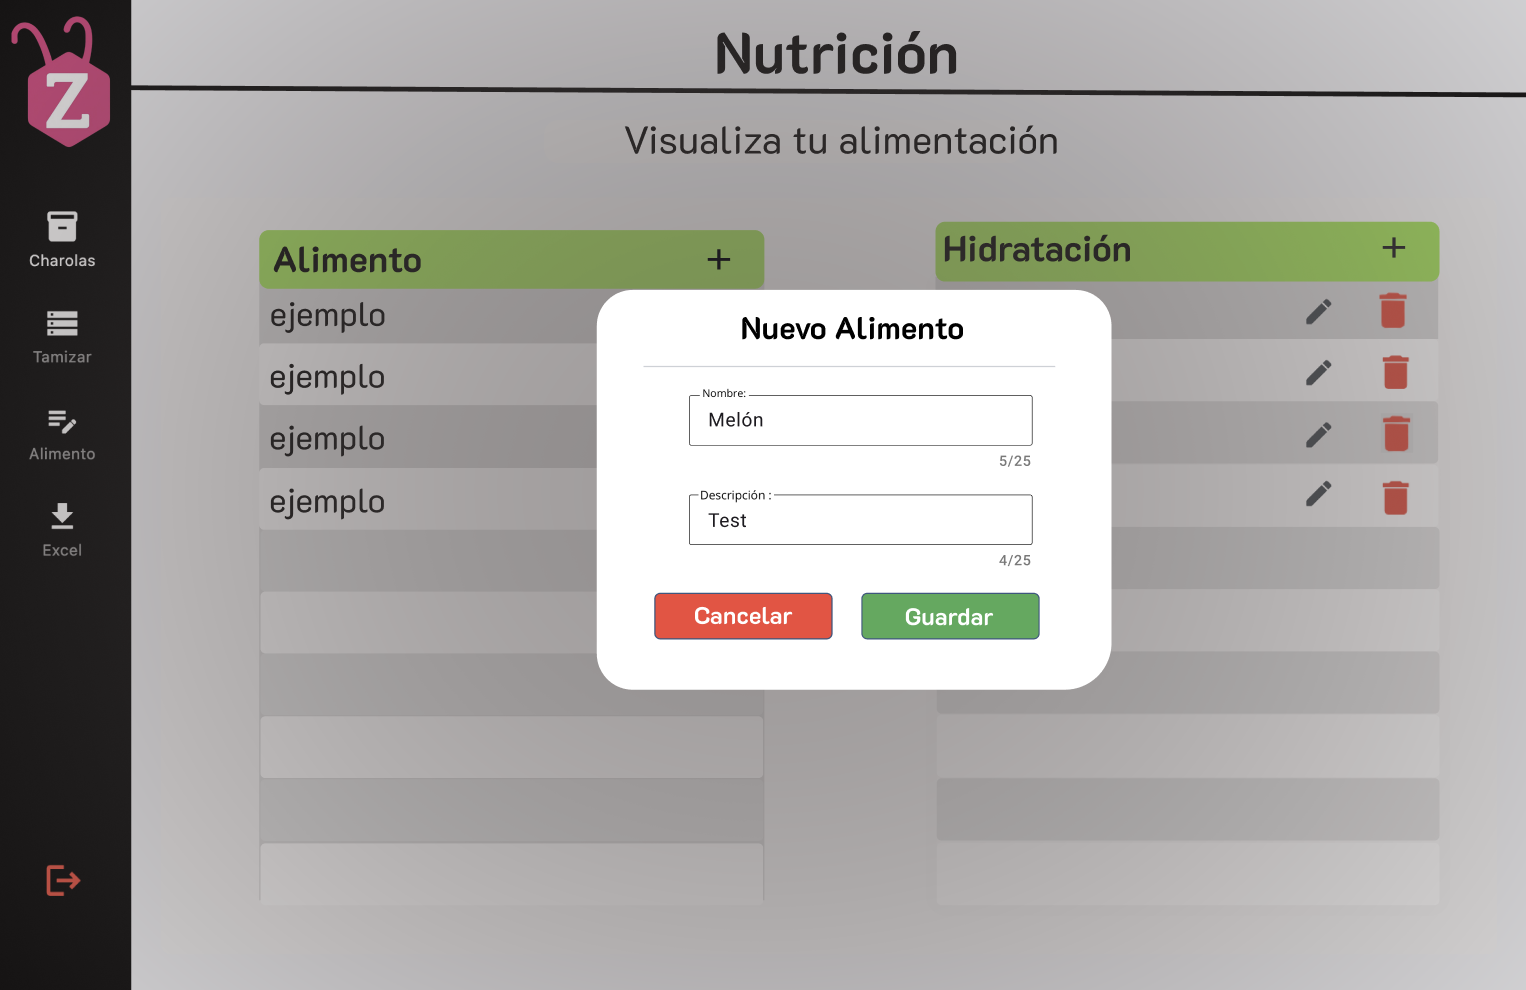
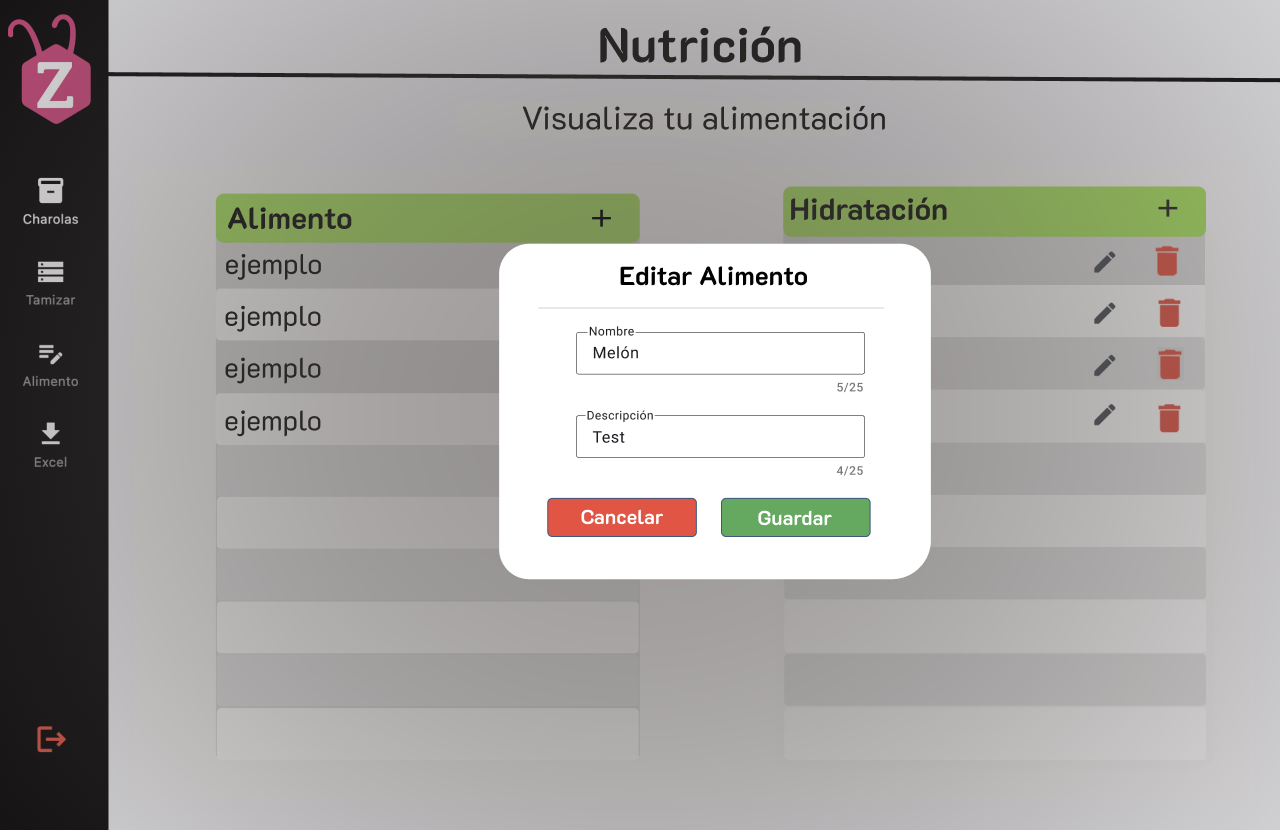
Subir Diseño de Algoritmos

diff --git a/documentation/docs/proyectos/larvas/documentacion/requisitos/RF23.md b/documentation/docs/proyectos/larvas/documentacion/requisitos/RF23.md
@@ -1,17 +1,19 @@
 ---
-title: "RF23: Registrar un nuevo tipo de comida en el sistema"  
+title: "RF23: Registrar un nuevo tipo de alimento en el sistema"  
 sidebar_position: 24
 ---
 
-# RF23: Registrar un nuevo tipo de comida en el sistema
+# RF23: Registrar un nuevo tipo de alimento en el sistema
 
 ### Historia de Usuario
-Como usuario, quiero agregar un nuevo tipo de comida en el sistema, para actualizar y mejorar la alimentación de las larvas y escarabajos según sea necesario.
+Como usuario, quiero agregar un nuevo tipo de alimento en el sistema, para actualizar y mejorar la alimentación de las larvas y escarabajos según sea necesario.
 
 
   **Criterios de Aceptación:**
-  - El sistema debe permitir ingresar un nuevo tipo de comida respectiva descripción y cantidad recomendada.
-  - La nueva comida debe estar disponible en la lista de opciones de alimentación.
+  - El sistema debe permitir ingresar un nuevo tipo de alimento respectiva descripción y cantidad recomendada.
+  - La nueva alimento debe estar disponible en la lista de opciones de alimentación.
+  - No se puede ingresar números al registrar el nombre de un alimento.
+  - No se puede ingresar caracteres especiales al registrar el nombre de un alimento.
 
 ---
 
@@ -37,21 +39,21 @@ sequenceDiagram
 
      alt GET Muestra datos tabla, 200
         Usuario->>+View: Entra a la interfaz
-        View->>-ViewModel: getTablaComida()
+        View->>-ViewModel: obtenerAlimentos()
         activate ViewModel 
-        ViewModel->>Domain: getTablaComida()
+        ViewModel->>Domain: obtenerAlimentos()
         deactivate ViewModel 
         activate Domain
-        Domain->>Repository: getTablaComida()
+        Domain->>Repository: obtenerAlimentos()
         deactivate Domain
         activate Repository
-        Repository->>APIService: getTablaComida()
+        Repository->>APIService: obtenerAlimentos()
         deactivate Repository
         activate APIService
-        APIService->>Controller: GET /getInfoComida
+        APIService->>Controller: GET /obtenerAlimentos
         deactivate APIService
         activate Controller
-        Controller->>Model: getInfoComida
+        Controller->>Model: obtenerAlimentos
         deactivate Controller
         activate Model
         Model->>Database: query
@@ -84,21 +86,21 @@ sequenceDiagram
     
     else GET No se encontraron datos, 200
         Usuario->>+View: Entra a la interfaz
-        View->>-ViewModel: getTablaComida()
+        View->>-ViewModel: obtenerAlimentos()
         activate ViewModel 
-        ViewModel->>Domain: getTablaComida()
+        ViewModel->>Domain: obtenerAlimentos()
         deactivate ViewModel 
         activate Domain
-        Domain->>Repository: getTablaComida()
+        Domain->>Repository: obtenerAlimentos()
         deactivate Domain
         activate Repository
-        Repository->>APIService: getTablaComida()
+        Repository->>APIService: obtenerAlimentos()
         deactivate Repository
         activate APIService
-        APIService->>Controller: GET /getInfoComida
+        APIService->>Controller: GET /obtenerAlimentos
         deactivate APIService
         activate Controller
-        Controller->>Model: getInfoComida
+        Controller->>Model: obtenerAlimentos
         deactivate Controller
         activate Model
         Model->>Database: query
@@ -131,21 +133,21 @@ sequenceDiagram
 
         else GET Error de servidor, 500
         Usuario->>+View: Entra a la interfaz
-        View->>-ViewModel: getTablaComida()
+        View->>-ViewModel: obtenerAlimentos()
         activate ViewModel 
-        ViewModel->>Domain: getTablaComida()
+        ViewModel->>Domain: obtenerAlimentos()
         deactivate ViewModel 
         activate Domain
-        Domain->>Repository: getTablaComida()
+        Domain->>Repository: obtenerAlimentos()
         deactivate Domain
         activate Repository
-        Repository->>APIService: getTablaComida()
+        Repository->>APIService: obtenerAlimentos()
         deactivate Repository
         activate APIService
-        APIService->>Controller: GET /getInfoComida
+        APIService->>Controller: GET /obtenerAlimentos
         deactivate APIService
         activate Controller
-        Controller->>Model: getInfoComida
+        Controller->>Model: obtenerAlimentos
         activate Model
         Model->>Database: query
         activate Database
@@ -174,18 +176,18 @@ sequenceDiagram
 
     else GET No hay inicio de sesión, 401
         Usuario->>+View: Entra a la interfaz
-        View->>-ViewModel: getTablaComida()
+        View->>-ViewModel: obtenerAlimentos()
         activate ViewModel 
-        ViewModel->>Domain: getTablaComida()
+        ViewModel->>Domain: obtenerAlimentos()
         deactivate ViewModel 
         activate Domain
-        Domain->>Repository: getTablaComida()
+        Domain->>Repository: obtenerAlimentos()
         deactivate Domain
         activate Repository
-        Repository->>APIService: getTablaComida()
+        Repository->>APIService: obtenerAlimentos()
         deactivate Repository
         activate APIService
-        APIService->>Controller: GET /getInfoComida
+        APIService->>Controller: GET /obtenerAlimentos
         deactivate APIService
         activate Controller
 
@@ -209,15 +211,15 @@ sequenceDiagram
 
     else GET Sin conexión a internet, 101
         Usuario->>+View: Entra a la interfaz
-        View->>-ViewModel: getTablaComida()
+        View->>-ViewModel: obtenerAlimentos()
         activate ViewModel 
-        ViewModel->>Domain: getTablaComida()
+        ViewModel->>Domain: obtenerAlimentos()
         deactivate ViewModel 
         activate Domain
-        Domain->>Repository: getTablaComida()
+        Domain->>Repository: obtenerAlimentos()
         deactivate Domain
         activate Repository
-        Repository->>APIService: getTablaComida()
+        Repository->>APIService: obtenerAlimentos()
         deactivate Repository
         activate APIService
 
@@ -243,27 +245,27 @@ sequenceDiagram
         Usuario->>View: Presiona icono " + "
         activate View
 
-        View->>ViewModel: postRegistrarAlimento(nombre, descripcion)
+        View->>ViewModel: registrarAlimento(nombre, descripcion)
         deactivate View
         activate ViewModel
 
-        ViewModel->>Domain: postRegistrarAlimento(nombre, descripcion)
+        ViewModel->>Domain: registrarAlimento(nombre, descripcion)
         deactivate ViewModel
         activate Domain
 
-        Domain->>Repository: postRegistrarAlimento(nombre, descripcion)
+        Domain->>Repository: registrarAlimento(nombre, descripcion)
         deactivate Domain
         activate Repository
 
-        Repository->>APIService: postRegistrarAlimento(nombre, descripcion)
+        Repository->>APIService: registrarAlimento(nombre, descripcion)
         deactivate Repository
         activate APIService
 
-        APIService->>Controller: POST / postDatosComida
+        APIService->>Controller: POST / registrarAlimento
         deactivate APIService
         activate Controller
 
-        Controller->>Model: postDatosComida
+        Controller->>Model: registrarAlimento
         deactivate Controller
         activate Model
 
@@ -302,11 +304,11 @@ sequenceDiagram
         View-->>Usuario: Mostrar interfaz de Alimentación
         deactivate View
     
-            else POST: Datos no válidos, 400
+        else POST: Datos no válidos, 400
         Usuario->>View: Presiona icono " + "
         activate View
 
-        View->>ViewModel: postRegistrarAlimento(nombre, descripcion)
+        View->>ViewModel: registrarAlimento(nombre, descripcion)
         deactivate View
         activate ViewModel
 
@@ -322,19 +324,19 @@ sequenceDiagram
         Usuario->>View: Presiona icono " + "
         activate View
 
-        View->>ViewModel: postRegistrarAlimento(nombre, descripcion)
+        View->>ViewModel: registrarAlimento(nombre, descripcion)
         deactivate View
         activate ViewModel
 
-        ViewModel->>Domain: postRegistrarAlimento(nombre, descripcion)
+        ViewModel->>Domain: registrarAlimento(nombre, descripcion)
         deactivate ViewModel
         activate Domain
 
-        Domain->>Repository: postRegistrarAlimento(nombre, descripcion)
+        Domain->>Repository: registrarAlimento(nombre, descripcion)
         deactivate Domain
         activate Repository
 
-        Repository->>APIService: postRegistrarAlimento(nombre, descripcion)
+        Repository->>APIService: registrarAlimento(nombre, descripcion)
         deactivate Repository
         activate APIService
 
@@ -361,27 +363,27 @@ sequenceDiagram
         Usuario->>View: Presiona icono " + "
         activate View
 
-        View->>ViewModel: postRegistrarAlimento(nombre, descripcion)
+        View->>ViewModel: registrarAlimento(nombre, descripcion)
         deactivate View
         activate ViewModel
 
-        ViewModel->>Domain: postRegistrarAlimento(nombre, descripcion)
+        ViewModel->>Domain: registrarAlimento(nombre, descripcion)
         deactivate ViewModel
         activate Domain
 
-        Domain->>Repository: postRegistrarAlimento(nombre, descripcion)
+        Domain->>Repository: registrarAlimento(nombre, descripcion)
         deactivate Domain
         activate Repository
 
-        Repository->>APIService: postRegistrarAlimento(nombre, descripcion)
+        Repository->>APIService: registrarAlimento(nombre, descripcion)
         deactivate Repository
         activate APIService
 
-        APIService->>Controller: POST / postDatosComida
+        APIService->>Controller: POST / registrarAlimento
         deactivate APIService
         activate Controller
 
-        Controller->>Model: postDatosComida
+        Controller->>Model: registrarAlimento
         
         activate Model
 
@@ -454,5 +456,6 @@ sequenceDiagram
 | **2.2**             | Diagramas de actividades   | 23/5/2025  | Juan Eduardo Rosas Cerón |
 | **2.3**             | Se corrigió mockup  | 29/5/2025  | Mariana Juárez |
 | **2.4**             | Se agregaron los pull request de front y back | 29/5/2025  | Sofía Osorio |
+| **2.5**             | Se actualizaron los criterios de aceptación | 30/5/2025  | Mariana Juárez  |
 
 

diff --git a/documentation/docs/proyectos/larvas/documentacion/requisitos/RF24.md b/documentation/docs/proyectos/larvas/documentacion/requisitos/RF24.md
@@ -1,16 +1,18 @@
 ---
-title: "RF24: Editar un tipo de comida en el sistema"  
+title: "RF24: Editar un tipo de alimento en el sistema"  
 sidebar_position: 25
 ---
 
-# RF24: Editar un tipo de comida en el sistema
+# RF24: Editar un tipo de alimento en el sistema
 
 ### Historia de Usuario
-Como administrador del sistema, quiero editar la información general de un tipo de comida registrado en el sistema, para actualizar sus características, cantidades recomendadas o cualquier ajuste necesario en la alimentación.
+Como usuario, quiero editar la información de un tipo de alimento registrado en el sistema, para actualizar sus características, cantidades recomendadas o cualquier ajuste necesario en la alimentación.
 
   **Criterios de Aceptación:**
-  - El sistema debe permitir modificar los datos de un tipo de hidratación previamente registrado.
+  - El sistema debe permitir modificar los datos de un tipo de alimento previamente registrado.
   - Los cambios deben reflejarse de inmediato y actualizarse en los registros históricos.
+  - No se puede ingresar números al editar el nombre de un alimento.
+  - No se puede ingresar caracteres especiales al editar el nombre de un alimento.
 
 ---
 
@@ -54,11 +56,11 @@ sequenceDiagram
         deactivate Repository
         activate APIService
 
-        APIService->>Controller: PUT / DatosComida
+        APIService->>Controller: PUT / editarAlimento
         deactivate APIService
         activate Controller
 
-        Controller->>Model: DatosComida
+        Controller->>Model: editarAlimento
         deactivate Controller
         activate Model
 
@@ -125,11 +127,11 @@ sequenceDiagram
         deactivate ViewModel
         activate Domain
 
-        Domain->>Repository: postRegistrarAlimento(Alimento alimento)
+        Domain->>Repository: editarAlimento(Alimento alimento)
         deactivate Domain
         activate Repository
 
-        Repository->>APIService: postRegistrarAlimento(nombre, descripcion)
+        Repository->>APIService: editarAlimento(nombre, descripcion)
         deactivate Repository
         activate APIService
 
@@ -172,11 +174,11 @@ sequenceDiagram
         deactivate Repository
         activate APIService
 
-        APIService->>Controller: PUT / DatosComida
+        APIService->>Controller: PUT / editarAlimento
         deactivate APIService
         activate Controller
 
-        Controller->>Model: DatosComida
+        Controller->>Model: editarAlimento
         
         activate Model
 
@@ -247,3 +249,4 @@ sequenceDiagram
 | **2.1**             | Diagramas de actividades   | 23/5/2025  | Juan Eduardo Rosas Cerón |
 | **2.2**             | Se corrigió mockup  | 29/5/2025  | Mariana Juárez |
 | **2.3**             | Se agregaron los pull request de front y back | 29/5/2025  | Sofía Osorio |
+| **2.4**             | Se actualizaron criterios de aceptación | 30/5/2025  | Mariana Juárez |

diff --git a/documentation/docs/proyectos/larvas/documentacion/requisitos/RF40.md b/documentation/docs/proyectos/larvas/documentacion/requisitos/RF40.md
@@ -20,6 +20,12 @@ Como administrador del sistema, quiero editar la información general de un tipo
 
 ---
 
+### Diseño de Algoritmos
+
+[Diseño de Algoritmos - Editar un tipo de hidratación](https://docs.google.com/document/d/1kblDxljO8M2PKkIyyY_EqeuSq6AhI07Wk-kRYDXpbS8/edit?usp=share_link)
+
+---
+
 ### Diagrama de Secuencia
 
 ```mermaid
@@ -233,5 +239,6 @@ sequenceDiagram
 | **Tipo de Versión** | **Descripción**                      | **Fecha**  | **Colaborador**   |
 | ------------------- | ------------------------------------ | ---------- | ----------------- |
 | **1.0**             | Se agregó historia de usuario        | 17/05/2025 | Mariana Juárez    |
-| **1.1**             | Se agregó diagrama de secuencia y mockup        | 19/05/2025 | Mariana Juárez    |
+| **1.1**             | Se agregó diagrama de secuencia y mockup          | 19/05/2025 | Mariana Juárez    |
 | **1.2**             | Diagramas de actividades   | 23/5/2025  | Juan Eduardo Rosas Cerón |
+| **1.3**             | Diseño de Algoritmos                 | 2/6/2025   | Mariana Juárez  |

diff --git a/documentation/docs/proyectos/larvas/documentacion/requisitos/RF18.md b/documentation/docs/proyectos/larvas/documentacion/requisitos/RF18.md
@@ -6,7 +6,7 @@ sidebar_position: 19
 # RF18: Historial de actividad de charola
 
 ### Historia de Usuario
-Como usario, quiero consultar las especificaciones y los cuidados que ha tenido una charola a lo largo del tiempo, para llevar un seguimiento detallado del manejo y condiciones de la charola y optimizar la producción.
+Como usario, quiero consultar las veces que se han quiero consultar las especificaciones y los cuidados que ha tenido una charola a lo largo del tiempo, para llevar un seguimiento detallado del manejo y condiciones de la charola y optimizar la producción.
 
   **Criterios de Aceptación:**
   - El sistema debe permitir visualizar un historial con las actividades realizadas en la charola.
